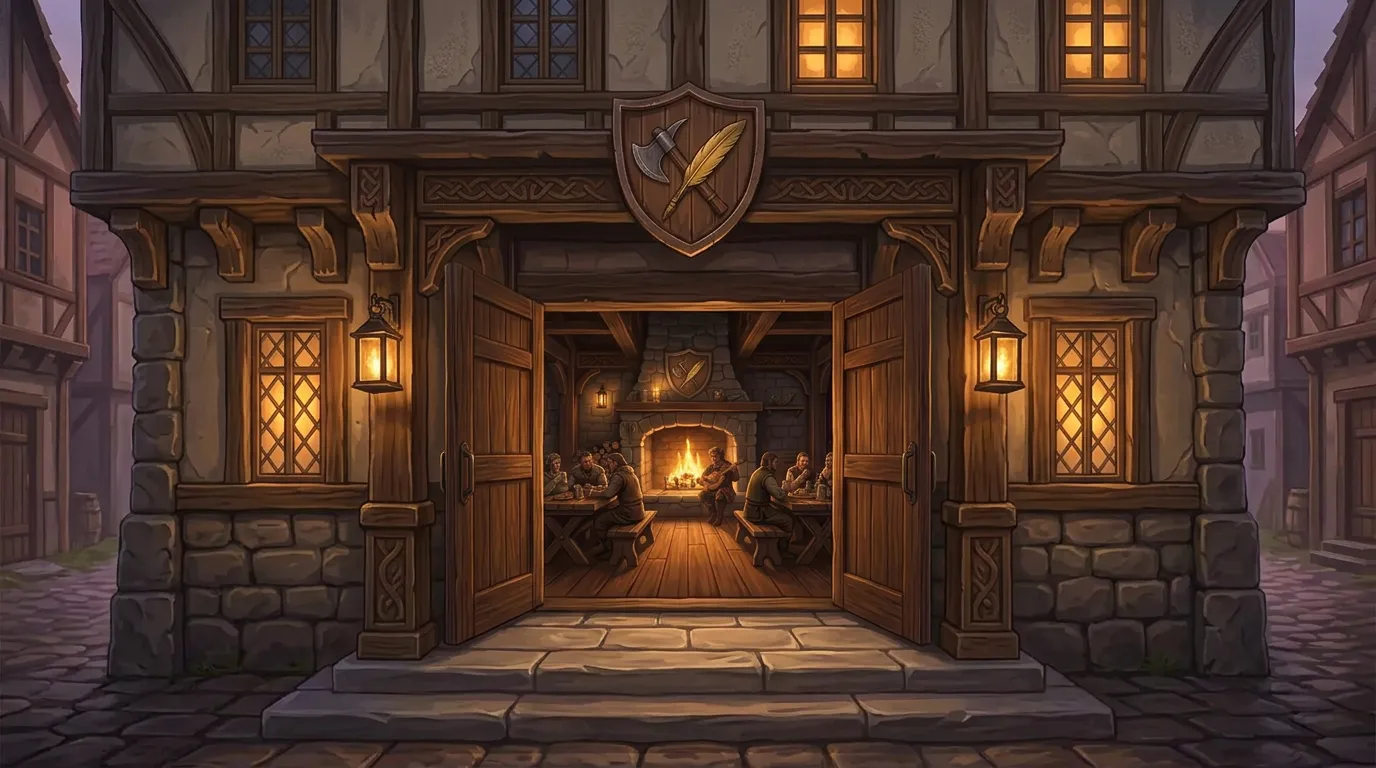
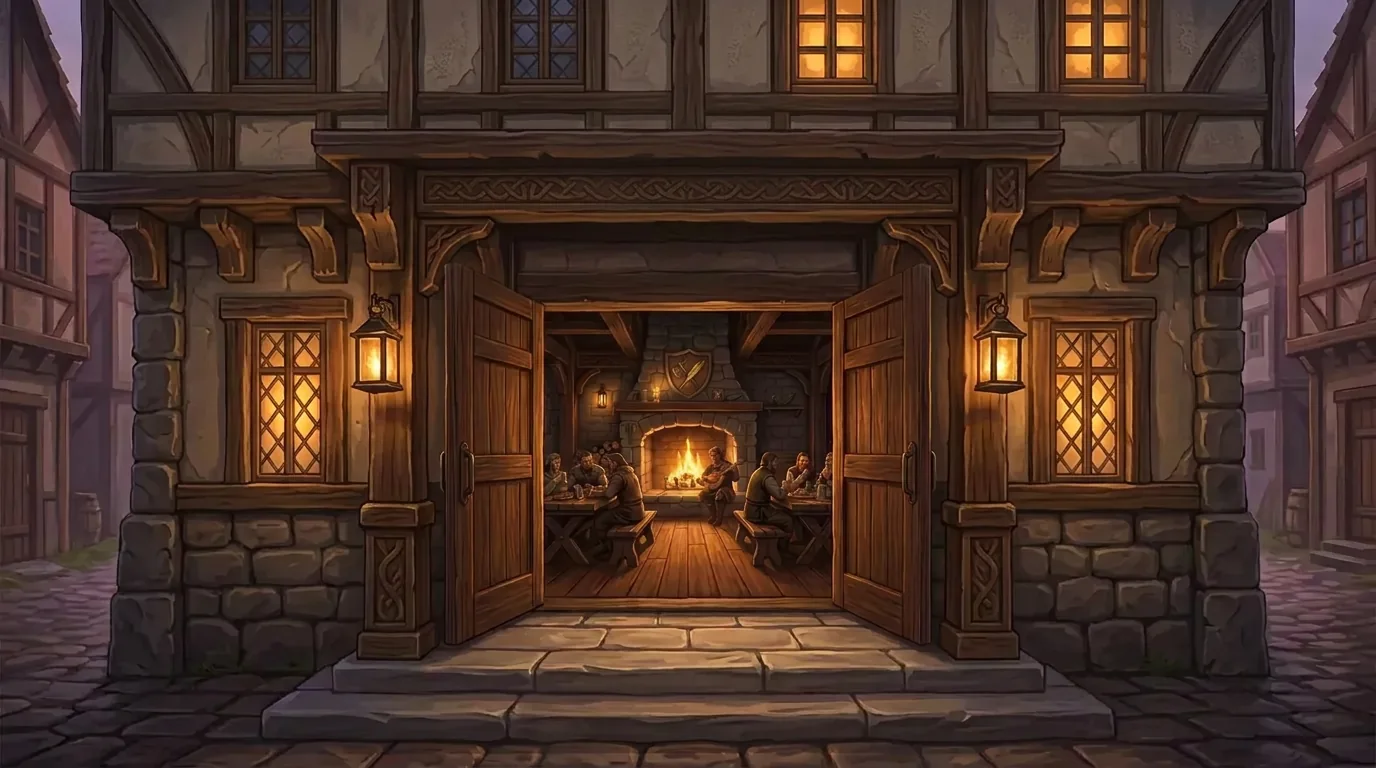
fix(дорога): герб только над очагом, оффлайн на выборе героя
На пороге таверны убран второй герб над дверью — знак остаётся
над камином. На карточке героя «Вас не было» считает время с
последнего ухода, а не нулевой totalPlayTime.

Changed region(s): [[0.4375, 0.0938, 0.5625, 0.3438]]

diff --git a/artifacts/my-app/src/features/hero/SelectCharacterPage.tsx b/artifacts/my-app/src/features/hero/SelectCharacterPage.tsx
@@ -5,6 +5,8 @@ import { useCharacterStore } from '@/store/characterStore';
 import { GPanel, GButton, GAvatar, GBadge } from '@/shared/ui/gameUI';
 import { getAvatarPath, getRaceLabel } from '@/data/characters';
 import { formatDuration } from '@/lib/utils';
+import { awayDurationMs } from '@/lib/offlineAway';
+import { peekLeaveTime } from '@/lib/saveManager';
 import { OnboardingScene } from '@/components/OnboardingScene';
 import { OnboardingAccountBar } from '@/features/auth/OnboardingAccountBar';
 import { queueCinematic } from '@/lib/cinematicState';
@@ -19,12 +21,18 @@ export function SelectCharacterPage() {
   const storeError = useCharacterStore(s => s.error);
   const [selectingId, setSelectingId] = useState<string | null>(null);
   const [actionError, setActionError] = useState<string | null>(null);
+  const [now, setNow] = useState(() => Date.now());
 
   useEffect(() => {
     if (user) {
       void loadCharacters(user.id);
     }
   }, [loadCharacters, user]);
+
+  useEffect(() => {
+    const timer = window.setInterval(() => setNow(Date.now()), 1000);
+    return () => window.clearInterval(timer);
+  }, []);
 
   const liveCharacters = characters.filter(character => !character.isDeleted);
   const hasAny = liveCharacters.length > 0;
@@ -95,8 +103,13 @@ export function SelectCharacterPage() {
                   </div>
 
                   <div className="character-select-card__memory">
-                    <span>Пройдено вместе</span>
-                    <strong>⌛ {formatDuration(character.saveData?.totalPlayTime ?? 0)}</strong>
+                    <span>Вас не было</span>
+                    <strong>⌛ {formatDuration(awayDurationMs(now, [
+                      peekLeaveTime(),
+                      character.saveData?.savedAt ?? 0,
+                      character.lastSavedAt,
+                      character.createdAt,
+                    ]))}</strong>
                   </div>
 
                   <div className="character-select-card__actions">

diff --git a/artifacts/my-app/src/lib/saveManager.ts b/artifacts/my-app/src/lib/saveManager.ts
@@ -303,6 +303,17 @@ export function saveOnLeave(): void {
   }
 }
 
+/** Момент ухода, без сброса. Для карточки выбора героя. */
+export function peekLeaveTime(): number {
+  try {
+    const store = isGuestMode() ? window.sessionStorage : window.localStorage;
+    const leaveTime = Number(store.getItem(leaveTimeKey()) || '0');
+    return Number.isFinite(leaveTime) && leaveTime > 0 ? leaveTime : 0;
+  } catch {
+    return 0;
+  }
+}
+
 /** Читает время ухода и возвращает сколько прошло (ms) */
 export function getOfflineDuration(): number {
   try {

diff --git a/artifacts/my-app/src/lib/offlineAway.test.ts b/artifacts/my-app/src/lib/offlineAway.test.ts
@@ -1,0 +1,16 @@
+import assert from 'node:assert/strict';
+import { test } from 'node:test';
+import { awayDurationMs } from './offlineAway.ts';
+
+test('оффлайн: нет штампов — 0', () => {
+  assert.equal(awayDurationMs(1000, []), 0);
+  assert.equal(awayDurationMs(1000, [0, NaN, -5]), 0);
+});
+
+test('оффлайн: берём самый свежий уход', () => {
+  assert.equal(awayDurationMs(10_000, [1000, 4000, 2000]), 6000);
+});
+
+test('оффлайн: будущее не считается', () => {
+  assert.equal(awayDurationMs(10_000, [20_000, 1000]), 9000);
+});

diff --git a/artifacts/my-app/src/lib/offlineAway.ts b/artifacts/my-app/src/lib/offlineAway.ts
@@ -1,0 +1,10 @@
+/**
+ * Сколько героя не было — для карточки выбора.
+ * Берём самый свежий известный уход (локальный leave, сейв, last_saved_at).
+ * Не трогает тики и не списывает leave_time.
+ */
+export function awayDurationMs(now: number, stamps: readonly number[]): number {
+  const valid = stamps.filter(t => Number.isFinite(t) && t > 0 && t <= now);
+  if (valid.length === 0) return 0;
+  return now - Math.max(...valid);
+}

diff --git a/artifacts/my-app/src/lib/characterApi.ts b/artifacts/my-app/src/lib/characterApi.ts
@@ -73,7 +73,7 @@ function rowToCharacter(row: CharacterRow): Character {
     hasChangedNickname: row.has_changed_nickname ?? false,
     hasChangedAvatar: row.has_changed_avatar ?? false,
     selected: row.selected ?? false,
-    lastSavedAt: toMs(row.last_saved_at),
+    lastSavedAt: row.last_saved_at ? toMs(row.last_saved_at) : 0,
     createdAt: toMs(row.created_at),
     updatedAt: toMs(row.updated_at),
     isDeleted: row.is_deleted ?? false,
